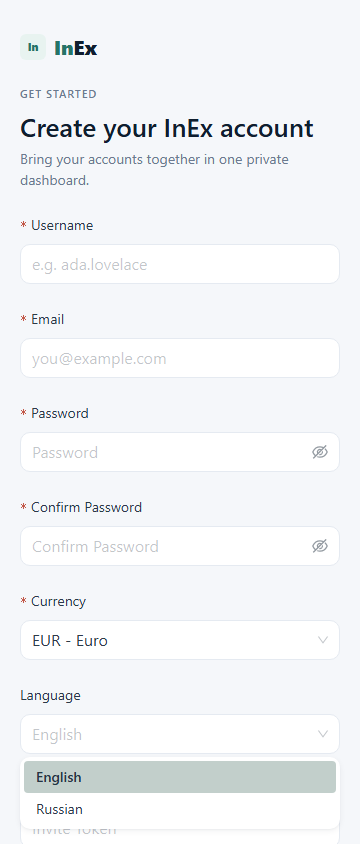
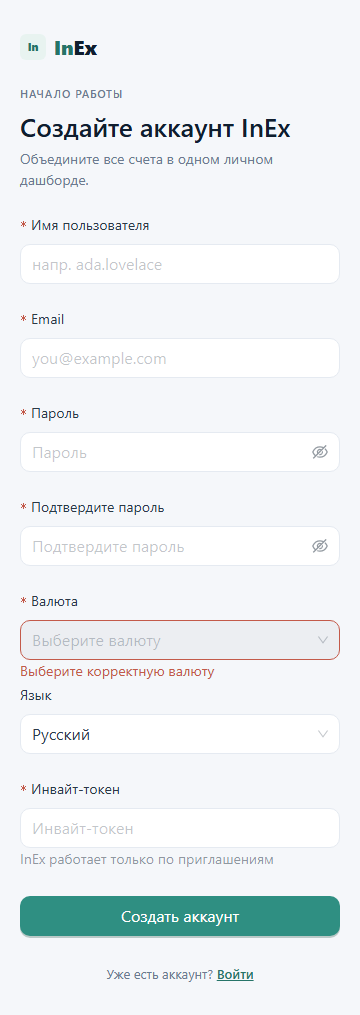
fix(auth): address 10.5b review findings

diff --git a/inex/ClientApp/src/pages/Register.test.tsx b/inex/ClientApp/src/pages/Register.test.tsx
@@ -12,6 +12,7 @@ const mocks = vi.hoisted(() => ({
 
 let authState = {
   accessToken: null as string | null,
+  isInitializing: false,
   error: null as string | null,
 };
 
@@ -106,7 +107,7 @@ describe("Register", () => {
   });
 
   beforeEach(() => {
-    authState = { accessToken: null, error: null };
+    authState = { accessToken: null, isInitializing: false, error: null };
     mocks.navigate.mockReset();
     mocks.dispatch.mockReset();
     mocks.changeLanguage.mockReset();
@@ -137,6 +138,32 @@ describe("Register", () => {
     expect(await screen.findByText("EUR - Euro")).toBeInTheDocument();
   });
 
+  it("shows a loading state instead of the form while the session is restoring", () => {
+    authState = { accessToken: null, isInitializing: true, error: null };
+    mocks.apiGet.mockReturnValue(new Promise(() => undefined));
+
+    render(
+      <MemoryRouter>
+        <Register />
+      </MemoryRouter>,
+    );
+
+    expect(screen.queryByRole("heading", { name: "Create your InEx account" })).not.toBeInTheDocument();
+    expect(document.querySelector(".ant-spin")).toBeInTheDocument();
+  });
+
+  it("shows a localized currency load error when currencies cannot be fetched", async () => {
+    mocks.apiGet.mockRejectedValue(new Error("network"));
+
+    render(
+      <MemoryRouter>
+        <Register />
+      </MemoryRouter>,
+    );
+
+    expect(await screen.findByText("Please select a valid currency")).toBeInTheDocument();
+  });
+
   it("shows password strength feedback and localized validation errors", async () => {
     const user = userEvent.setup();
 
@@ -158,7 +185,7 @@ describe("Register", () => {
 
   it("maps register API errors, clears them on edit, and redirects success to dashboard", async () => {
     const user = userEvent.setup();
-    authState = { accessToken: null, error: "Email already exists" };
+    authState = { accessToken: null, isInitializing: false, error: "Email already exists" };
     let resolveDispatch: () => void = () => undefined;
     mocks.dispatch.mockReturnValue(new Promise<void>((resolve) => {
       resolveDispatch = resolve;
@@ -187,7 +214,7 @@ describe("Register", () => {
   });
 
   it("uses a localized fallback for unclassified register API errors", async () => {
-    authState = { accessToken: null, error: "Unexpected backend detail" };
+    authState = { accessToken: null, isInitializing: false, error: "Unexpected backend detail" };
 
     render(
       <MemoryRouter>
@@ -197,5 +224,18 @@ describe("Register", () => {
 
     expect(await screen.findByText("Could not create the account. Check the form and try again.")).toBeInTheDocument();
     expect(screen.queryByText("Unexpected backend detail")).not.toBeInTheDocument();
+  });
+
+  it("does not misclassify non-email duplicate errors as duplicate email", async () => {
+    authState = { accessToken: null, isInitializing: false, error: "Username already exists" };
+
+    render(
+      <MemoryRouter>
+        <Register />
+      </MemoryRouter>,
+    );
+
+    expect(await screen.findByText("Could not create the account. Check the form and try again.")).toBeInTheDocument();
+    expect(screen.queryByText("Email is already registered")).not.toBeInTheDocument();
   });
 });

diff --git a/inex/ClientApp/src/pages/Register.tsx b/inex/ClientApp/src/pages/Register.tsx
@@ -1,7 +1,7 @@
 import * as React from "react";
 import { useEffect, useState } from "react";
 import { useNavigate } from "react-router-dom";
-import { Button, Form, Input, Select } from "antd";
+import { Button, Form, Input, Select, Spin } from "antd";
 import { useTranslation } from "react-i18next";
 
 import ErrorBanner from "../components/ErrorBanner";
@@ -60,23 +60,42 @@ const Register = () => {
 
   const [isSubmitting, setIsSubmitting] = useState(false);
   const [currencies, setCurrencies] = useState<Currency[]>([]);
+  const [currencyLoadError, setCurrencyLoadError] = useState<string | null>(null);
   const authError = useAppSelector((s) => s.auth.error);
   const displayError = translateRegisterError(authError, t);
   const password = Form.useWatch("password", form) ?? "";
   const strength = passwordStrength(password);
 
+  const isInitializing = useAppSelector((s) => s.auth.isInitializing);
   const accessToken = useAppSelector((s) => s.auth.accessToken);
   useEffect(() => {
     if (accessToken) navigate("/dashboard", { replace: true });
   }, [accessToken, navigate]);
 
   useEffect(() => {
-    apiClient.get<Currency[]>("/currencies").then(({ data }) => {
-      setCurrencies(data);
-      const eur = data.find((c) => c.key === "EUR");
-      if (eur) form.setFieldValue("currencyId", eur.id);
-    });
-  }, [form]);
+    let isMounted = true;
+
+    apiClient
+      .get<Currency[]>("/currencies")
+      .then(({ data }) => {
+        if (!isMounted) return;
+
+        setCurrencies(data);
+        setCurrencyLoadError(null);
+        const eur = data.find((c) => c.key === "EUR");
+        if (eur) form.setFieldValue("currencyId", eur.id);
+      })
+      .catch(() => {
+        if (!isMounted) return;
+
+        setCurrencies([]);
+        setCurrencyLoadError(t("errors.currency_id.invalid"));
+      });
+
+    return () => {
+      isMounted = false;
+    };
+  }, [form, t]);
 
   const onValuesChange = () => {
     if (authError) dispatch(setAuthError(""));
@@ -109,6 +128,12 @@ const Register = () => {
 
   return (
     <>
+      {isInitializing ? (
+        <div style={{ display: "grid", placeItems: "center", minHeight: 260 }}>
+          <Spin size="large" />
+        </div>
+      ) : (
+        <>
       <div style={{ marginBottom: 24 }}>
         <div
           style={{
@@ -246,6 +271,8 @@ const Register = () => {
         <Form.Item
           name="currencyId"
           label={t("common.currency")}
+          help={currencyLoadError}
+          validateStatus={currencyLoadError ? "error" : undefined}
           rules={[{ required: true, message: t("errors.currency_id.invalid") }]}
         >
           <Select
@@ -257,6 +284,7 @@ const Register = () => {
               value: c.id,
               label: `${c.key} - ${c.name}`,
             }))}
+            disabled={Boolean(currencyLoadError)}
           />
         </Form.Item>
 
@@ -294,6 +322,8 @@ const Register = () => {
           </Button>
         </Form.Item>
       </Form>
+        </>
+      )}
     </>
   );
 };

diff --git a/inex/ClientApp/src/pages/Login.test.tsx b/inex/ClientApp/src/pages/Login.test.tsx
@@ -8,6 +8,7 @@ const dispatchMock = vi.fn();
 
 let authState = {
   accessToken: null as string | null,
+  isInitializing: false,
   error: null as string | null,
 };
 
@@ -69,7 +70,7 @@ describe("Login", () => {
   });
 
   beforeEach(() => {
-    authState = { accessToken: null, error: null };
+    authState = { accessToken: null, isInitializing: false, error: null };
     navigateMock.mockReset();
     dispatchMock.mockReset();
   });
@@ -88,9 +89,22 @@ describe("Login", () => {
     expect(screen.getByLabelText("Password")).toHaveAttribute("name", "password");
   });
 
+  it("shows a loading state instead of the form while the session is restoring", () => {
+    authState = { accessToken: null, isInitializing: true, error: null };
+
+    render(
+      <MemoryRouter>
+        <Login />
+      </MemoryRouter>,
+    );
+
+    expect(screen.queryByRole("heading", { name: "Sign in to InEx" })).not.toBeInTheDocument();
+    expect(document.querySelector(".ant-spin")).toBeInTheDocument();
+  });
+
   it("maps API errors into the auth error banner and clears them on edit", async () => {
     const user = userEvent.setup();
-    authState = { accessToken: null, error: "Invalid credentials" };
+    authState = { accessToken: null, isInitializing: false, error: "Invalid credentials" };
 
     render(
       <MemoryRouter>
@@ -106,7 +120,7 @@ describe("Login", () => {
   });
 
   it("uses a localized fallback for unclassified login API errors", () => {
-    authState = { accessToken: null, error: "Unexpected backend detail" };
+    authState = { accessToken: null, isInitializing: false, error: "Unexpected backend detail" };
 
     render(
       <MemoryRouter>

diff --git a/inex/ClientApp/src/pages/Login.tsx b/inex/ClientApp/src/pages/Login.tsx
@@ -1,7 +1,7 @@
 import * as React from "react";
 import { useEffect, useState } from "react";
 import { useNavigate } from "react-router-dom";
-import { Button, Form, Input } from "antd";
+import { Button, Form, Input, Spin } from "antd";
 import { useTranslation } from "react-i18next";
 
 import ErrorBanner from "../components/ErrorBanner";
@@ -25,6 +25,7 @@ const Login = () => {
   const authError = useAppSelector((s) => s.auth.error);
   const displayError = translateLoginError(authError, t);
 
+  const isInitializing = useAppSelector((s) => s.auth.isInitializing);
   const accessToken = useAppSelector((s) => s.auth.accessToken);
   useEffect(() => {
     if (accessToken) navigate("/dashboard", { replace: true });
@@ -48,6 +49,12 @@ const Login = () => {
 
   return (
     <>
+      {isInitializing ? (
+        <div style={{ display: "grid", placeItems: "center", minHeight: 260 }}>
+          <Spin size="large" />
+        </div>
+      ) : (
+        <>
       <div style={{ marginBottom: 24 }}>
         <div
           style={{
@@ -136,6 +143,8 @@ const Login = () => {
           </Button>
         </Form.Item>
       </Form>
+        </>
+      )}
     </>
   );
 };

diff --git a/inex/ClientApp/src/pages/auth-error-message.ts b/inex/ClientApp/src/pages/auth-error-message.ts
@@ -30,7 +30,16 @@ export const translateLoginError = (error: string | null, t: Translate): string 
 export const translateRegisterError = (error: string | null, t: Translate): string | null => {
   if (!error) return null;
 
-  if (normalizedIncludes(error, ["already", "duplicate", "email exists", "email is taken"])) {
+  if (
+    normalizedIncludes(error, [
+      "email already",
+      "email is already",
+      "duplicate email",
+      "email exists",
+      "email is taken",
+      "email already exists",
+    ])
+  ) {
     return t("auth.errors.duplicateEmail");
   }
 

diff --git a/inex/ClientApp/src/i18n.ts b/inex/ClientApp/src/i18n.ts
@@ -7,7 +7,7 @@ function syncDayjsLocale(lang: string) {
     dayjs.locale(lang === "ru" ? "ru" : "en");
 }
 
-const localeResourceVersion = "2026-06-05-management-gap-remediation";
+const localeResourceVersion = "2026-06-08-auth-profile-redesign";
 
 i18n
     .use(HttpBackend)

diff --git a/docs/implementation/10-5b-frontend-ux-login-and-registration-redesign.md b/docs/implementation/10-5b-frontend-ux-login-and-registration-redesign.md
@@ -1,6 +1,6 @@
 # Story 10.5b: Frontend UX - Login And Registration Redesign
 
-Status: review
+Status: done
 
 ## Story
 
@@ -756,7 +756,9 @@ GPT-5.3-Codex
 - Implemented `AuthShell` split-screen auth route, redesigned login/register forms, and kept successful auth redirects on `/dashboard`.
 - Added localized API error display fallbacks so unknown backend auth text is not rendered directly.
 - Added visual QA screenshots and metadata for required desktop/mobile auth states with `dataMode: fixture`.
-- Story status moved to `review` in this file.
+- Kept `you@example.com` as an intentional locale-neutral email-format placeholder exception in EN/RU.
+- Addressed code-review findings: bumped locale cache version, narrowed duplicate-email error classification, blocked form flash while session restore is initializing, guarded currency loading, and recaptured the RU 360px stress state.
+- Story status moved to `done` after code review fixes and verification.
 - Ultimate context engine analysis completed - comprehensive developer guide created.
 
 ### File List
@@ -781,6 +783,7 @@ GPT-5.3-Codex
 - inex/ClientApp/src/components/AuthShell.test.tsx
 - inex/ClientApp/src/components/AuthShell.tsx
 - inex/ClientApp/src/components/ErrorBanner.tsx
+- inex/ClientApp/src/i18n.ts
 - inex/ClientApp/src/pages/Login.test.tsx
 - inex/ClientApp/src/pages/Login.tsx
 - inex/ClientApp/src/pages/Register.test.tsx
@@ -790,3 +793,4 @@ GPT-5.3-Codex
 ### Change Log
 
 - 2026-06-08: Redesigned auth shell/forms, localized auth errors, added auth tests and visual QA artifacts.
+- 2026-06-08: Addressed code-review findings and marked story done.
